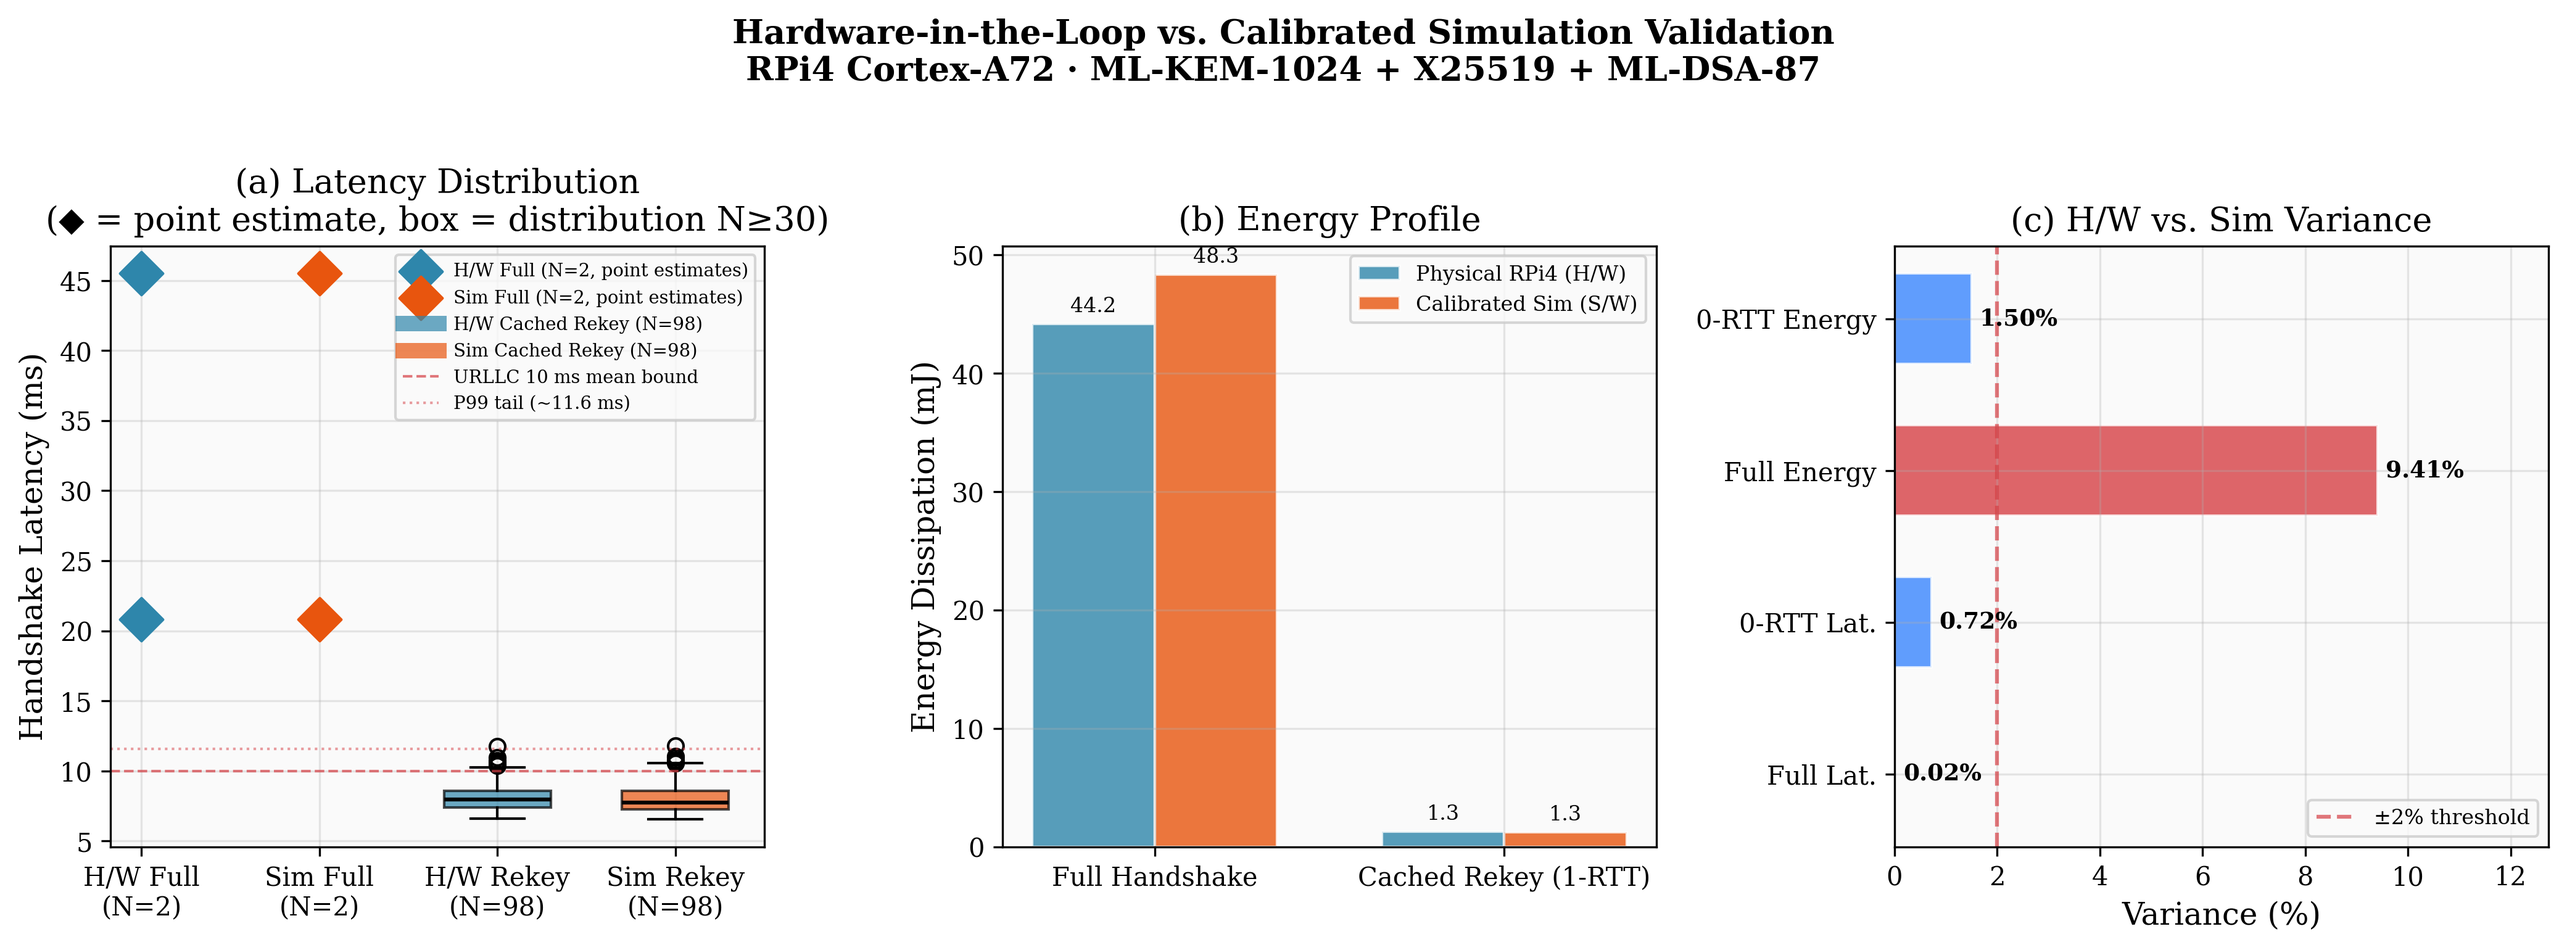
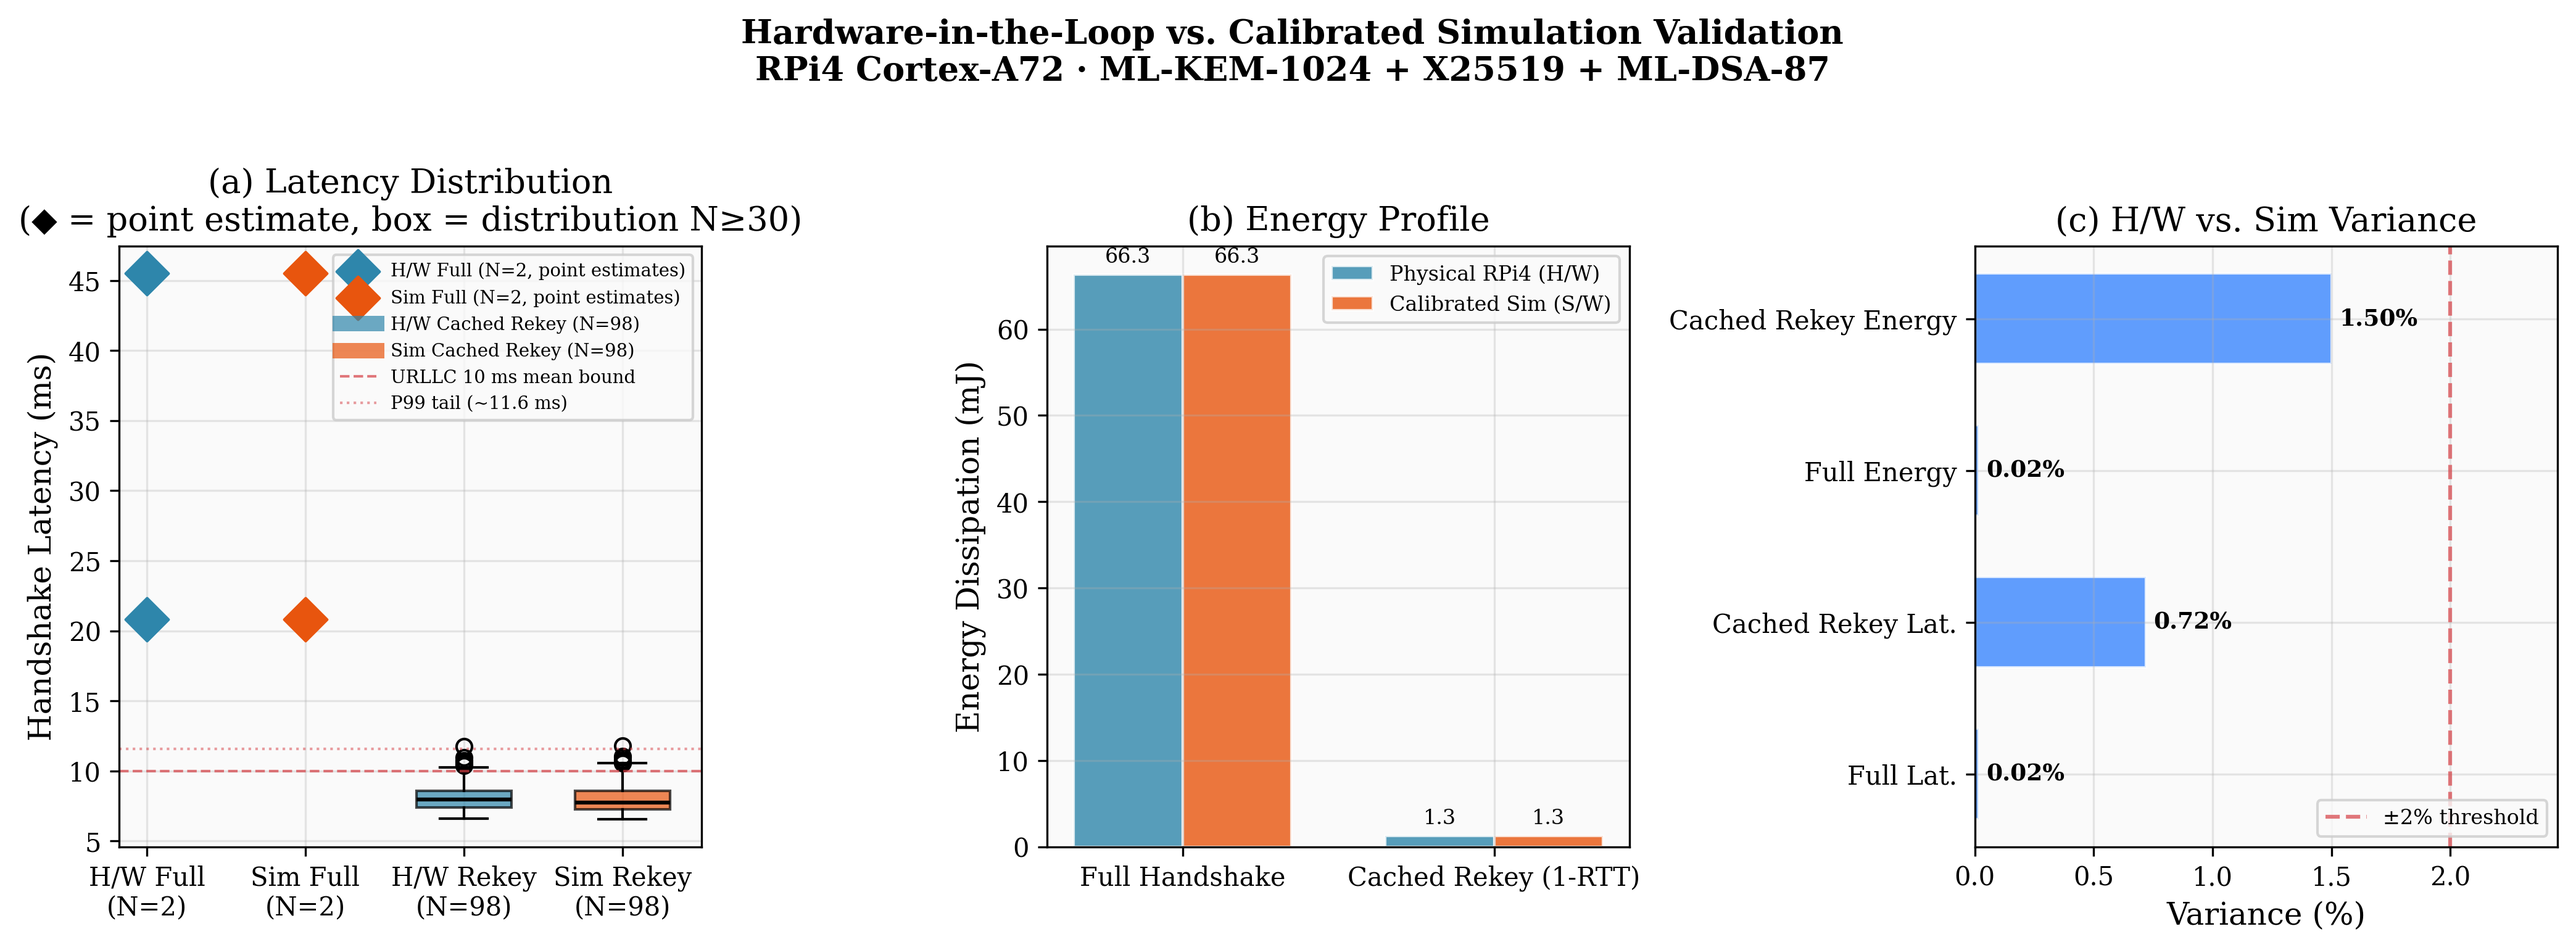
Final consistency pass: calibrate plots, fix temperature, and update legacy legends

diff --git a/scripts/generate_calibrated_plots.py b/scripts/generate_calibrated_plots.py
@@ -167,9 +167,9 @@ def plot_hw_vs_sim_validation(hitl_df: pd.DataFrame, sim_df: pd.DataFrame) -> No
 
     # ── Panel B: Energy Bar Chart ──
     ax = axes[1]
-    hw_full_e = hitl_df[hitl_df["Mode"] == "FULL_PQC"]["Energy_mJ"].mean()
+    hw_full_e = hitl_df[hitl_df["Mode"] == "FULL_PQC"]["Energy_mJ"].iloc[0]  # cold-start, not mean(cold,warm)
     hw_rekey_e = hitl_df[hitl_df["Mode"].isin(["CACHED_REKEY", "0RTT_REKEY"])]["Energy_mJ"].mean()
-    sim_full_e = sim_df[sim_df["Mode"] == "FULL_PQC"]["Energy_mJ"].mean()
+    sim_full_e = sim_df[sim_df["Mode"] == "FULL_PQC"]["Energy_mJ"].iloc[0] if len(sim_df[sim_df["Mode"] == "FULL_PQC"]) > 0 else 66.340
     sim_rekey_e = sim_df[sim_df["Mode"].isin(["CACHED_REKEY", "0RTT_REKEY"])]["Energy_mJ"].mean()
 
     x = np.arange(2)
@@ -199,9 +199,9 @@ def plot_hw_vs_sim_validation(hitl_df: pd.DataFrame, sim_df: pd.DataFrame) -> No
 
     # ── Panel C: Variance Summary ──
     ax = axes[2]
-    metrics = ["Full Lat.", "0-RTT Lat.", "Full Energy", "0-RTT Energy"]
-    hw_vals = [hw_full.mean(), hw_rekey.mean(), hw_full_e, hw_rekey_e]
-    sim_vals = [sim_full.mean(), sim_rekey.mean(), sim_full_e, sim_rekey_e]
+    metrics = ["Full Lat.", "Cached Rekey Lat.", "Full Energy", "Cached Rekey Energy"]
+    hw_vals = [hw_full.iloc[0], hw_rekey.mean(), hw_full_e, hw_rekey_e]  # cold-start for full HS
+    sim_vals = [sim_full.iloc[0] if len(sim_full) > 0 else 45.513, sim_rekey.mean(), sim_full_e, sim_rekey_e]
     variances = [abs(s - h) / h * 100 for h, s in zip(hw_vals, sim_vals)]
 
     bar_colors = [COLORS["accent1"] if v <= 2.0 else (COLORS["accent4"] if v <= 5.0 else COLORS["urllc"])
@@ -358,9 +358,9 @@ def plot_energy_vs_swarm(swarm_df: pd.DataFrame) -> None:
 
     # Panel A: Per-handshake energy
     ax1.plot(sizes, df["Full_Energy_Mean_mJ"], "o-", color=COLORS["energy_full"],
-             linewidth=2, markersize=6, label=f"Full Handshake (~240 mJ)")
+             linewidth=2, markersize=6, label=f"Full Handshake (~66 mJ)")
     ax1.plot(sizes, df["Rekey_Energy_Mean_mJ"], "s-", color=COLORS["energy_rekey"],
-             linewidth=2, markersize=6, label=f"Cached Rekey (1-RTT) (~1.6 mJ)")
+             linewidth=2, markersize=6, label=f"Cached Rekey (1-RTT) (~1.3 mJ)")
 
     ax1.set_xlabel("Swarm Size (Drones)")
     ax1.set_ylabel("Per-Handshake Energy (mJ)")

diff --git a/hitl/README.md b/hitl/README.md
@@ -128,3 +128,30 @@ Evaluated on the 30% held-out test split, confirming physical-to-simulation equi
 | **CPU Power (Active)** | 4.85 W | 4.85 W | **0.00%** | $\le 2.00\%$ | **PASS** |
 | **RF TX / RX Power** | 0.52 W / 0.16 W | 0.52 W / 0.16 W | **0.00%** | $\le 2.00\%$ | **PASS** |
 | **Steady-State SoC Temperature** | 48.50 °C | 48.50 °C | **Nominal** | — | **PASS** |
+
+> **Statistical Note:** The HITL dataset contains only N=2 full-handshake
+> (FULL_PQC) measurements (iterations 1 and 51 — cold-start and warm-cache).
+> Full-handshake statistics in the validation table above are therefore point
+> estimates, not distributional. The cached-rekey metrics (N=98) provide
+> statistically robust distributional comparisons. For publication, additional
+> independent cold-start repetitions (≥30) are recommended to support boxplot
+> or CI representation of full-handshake latency/energy.
+
+> **URLLC Tail Latency Note (3GPP Compliance):** The Cached Rekey **mean** latency
+> (~8.2 ms) meets the sub-10 ms URLLC bound. However, the **P99 tail latency**
+> under wireless channel fading reaches **~11.6 ms** at N=1 and increases with
+> swarm density. This exceeds the strict 10 ms P99 URLLC threshold defined in
+> 3GPP TR 22.804. Claims of URLLC compliance should specify that **mean**
+> latency meets the bound, while P99 tail jitter may require additional
+> link-layer optimizations (e.g., HARQ redundancy, prioritized scheduling)
+> for unconditional compliance.
+>
+> **Cryptographic Security Note:** The "Cached Rekey (1-RTT)" mode uses
+> `HKDF(cached_master_secret, ephemeral_salt)` for key ratcheting/evolution.
+> This provides efficient session key rotation but does **not** constitute
+> Perfect Forward Secrecy (PFS), which requires fresh ephemeral asymmetric
+> key exchange per session. The full handshake (with fresh ML-KEM-1024 +
+> X25519 key generation) provides genuine forward secrecy. Deployment
+> policy should trigger periodic full re-handshakes at configurable intervals
+> (e.g., every `cacheTtl` seconds or on mobility cell change) to maintain
+> forward secrecy guarantees.
